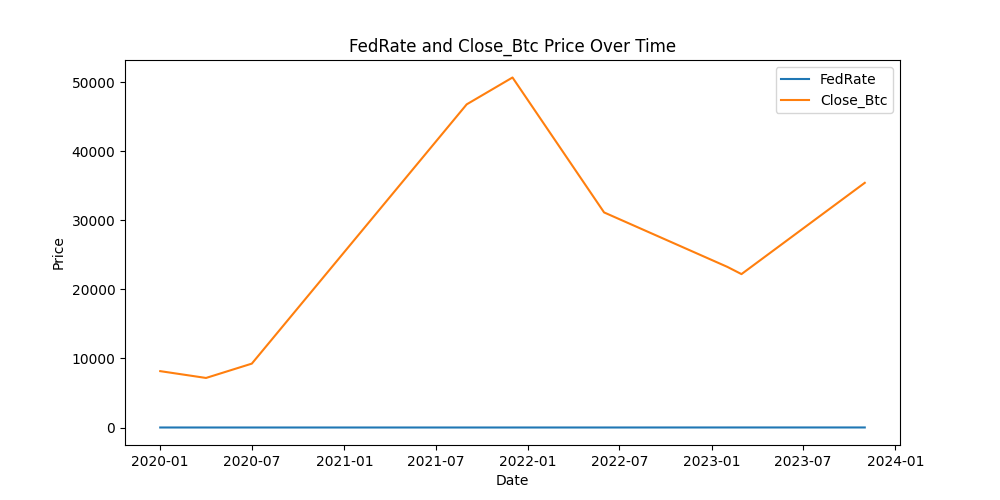
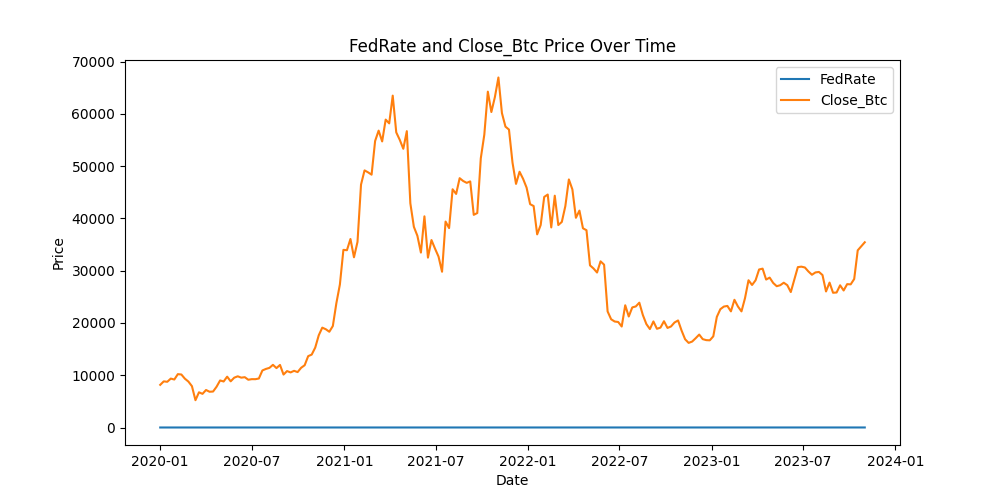
fixed date issue

diff --git a/main.py b/main.py
@@ -11,59 +11,37 @@ bitC_prices = pd.read_csv("Data/BTC-USD.csv", parse_dates=['Date'])
 ethC_prices = pd.read_csv("Data/ETH-USD.csv", parse_dates=['Date'])
 fed_rate = pd.read_csv("Data/FedRate_FRB_H15.csv", skiprows=5, parse_dates=["Time Period"])
 fed_rate.rename(columns={'Time Period': 'Date', 'RIFSPFF_N.WW': 'FedRate'}, inplace=True)
-personal_savings = pd.read_csv("Data/Personal Saving rate.csv", parse_dates=['DATE'])  # Assuming 'Date' column exists
-personal_savings.rename(columns={'DATE':'Date'}, inplace=True)
+
+personal_savings = pd.read_csv("Data/Personal Saving rate.csv")
+personal_savings['Date'] = pd.to_datetime(personal_savings['DATE'])  # Adjust 'DATE' if your column name differs
+personal_savings.drop(columns=['DATE'], inplace=True)  # Drop the original 'DATE' column
+personal_savings.set_index('Date', inplace=True)
+personal_savings_daily = personal_savings.resample('D').ffill()
+personal_savings_daily.reset_index(inplace=True)
+
 # Specify the renaming of columns after merging
 rename_dict = {
     'Close_x': 'Close_Btc',
     'Close_y': 'Close_Eth'
 }
 
-btc_dates = set(bitC_prices['Date'])
-eth_dates = set(ethC_prices['Date'])
-fed_dates = set(fed_rate['Date'])
-savings_dates = set(personal_savings['Date'])
-
-# Find common dates
-common_dates = btc_dates.intersection(eth_dates, fed_dates, savings_dates)
-print(f"Number of common dates: {len(common_dates)}")
-
-
-
-# merge task
+# Merge task
 def merge_data(dataframes, on='Date', how='inner', rename_cols=None):
-    # Initialize merged data with the first dataframe
     merged_data = dataframes[0]
-
-    # Iterate over the remaining dataframes and merge them one by one
     for df in dataframes[1:]:
         merged_data = pd.merge(merged_data, df, on=on, how=how)
-
-        # Rename columns if rename_cols is specified
         if rename_cols:
             merged_data.rename(columns=rename_cols, inplace=True)
-
     return merged_data
 
-
 # Merge all datasets on the 'Date' column with column renaming
-data = merge_data([bitC_prices, ethC_prices, fed_rate, personal_savings], rename_cols=rename_dict)
-
-# Check the resulting DataFrame
-print(data.head())
-
-
-
+data = merge_data([bitC_prices, ethC_prices, fed_rate, personal_savings_daily], rename_cols=rename_dict)
 
 ## Functions ##
-# Data plotting 
+# Data plotting
 def plot_price_movements(data, col1, col2, label1='First Asset', label2='Second Asset', folder='results', filename='price_movements.png'):
-    # Ensure the folder exists
     os.makedirs(folder, exist_ok=True)
-
-    # Full path for the plot image file
     plot_file_path = os.path.join(folder, filename)
-
     plt.figure(figsize=(10, 5))
     plt.plot(data['Date'], data[col1], label=label1)
     plt.plot(data['Date'], data[col2], label=label2)
@@ -71,70 +49,48 @@ def plot_price_movements(data, col1, col2, label1='First Asset', label2='Second 
     plt.ylabel('Price')
     plt.title(f'{label1} and {label2} Price Over Time')
     plt.legend()
-    
-    # Save the figure as an image file in the specified folder before showing it
     plt.savefig(plot_file_path)
     plt.show()
 
-
-
-
-##Linear Regression Analysis
+## Linear Regression Analysis
 def linear_regression_analysis(data, independent_col, dependent_col, plot=True, folder='results', plot_filename='linear_regression.png', summary_filename='regression_summary.png'):
-    # Define the independent variable (X) and add a constant term
     X = sm.add_constant(data[independent_col])
-    Y = data[dependent_col]  # Define the dependent variable (Y)
-    model = sm.OLS(Y, X).fit()  # Fit the linear regression model
-    print(model.summary())  # Print the summary of the regression
-
-    # Ensure the folder exists
+    Y = data[dependent_col]
+    model = sm.OLS(Y, X).fit()
+    print(model.summary())
     os.makedirs(folder, exist_ok=True)
-
-    # Full path for the summary image file and plot image file
     summary_image_path = os.path.join(folder, summary_filename)
     plot_image_path = os.path.join(folder, plot_filename)
-
-    # Convert the summary to a string
     summary_str = str(model.summary())
-
-    # Create a figure and add text of the summary to it
     fig, ax = plt.subplots(figsize=(10, 6))
     ax.text(0.01, 0.99, summary_str, verticalalignment='top', horizontalalignment='left', family='monospace', fontsize=10, transform=ax.transAxes)
     ax.axis('off')
-
-    # Save the figure containing the summary text as an image
     plt.savefig(summary_image_path, bbox_inches='tight')
-    plt.close(fig)  # Close the figure to prevent it from displaying
-
+    plt.close(fig)
     if plot:
-        # Plot the observed data
         plt.figure(figsize=(10, 6))
         sns.scatterplot(x=independent_col, y=dependent_col, data=data, color='blue', alpha=0.6)
-
-        # Plot the regression line
         sns.lineplot(x=data[independent_col], y=model.predict(X), color='red')
-
         plt.title(f'Linear Regression: {dependent_col} vs. {independent_col}')
         plt.xlabel(independent_col)
         plt.ylabel(dependent_col)
-        
-        # Save the plot image in the specified folder
         plt.savefig(plot_image_path)
         plt.show()
 
 def linear_reg_plot_price_mov(independent_col, dependent_col, folder, indxDep_name):
-    linear_regression_analysis(data, independent_col,dependent_col,folder=folder,  plot_filename=f'{indxDep_name}_linear_regression.png',summary_filename= f'{indxDep_name}_regression_summary.png')
-    plot_price_movements(data, independent_col,dependent_col, label1=independent_col, label2=dependent_col, folder=folder, filename=f'{indxDep_name}_price_movements.png')
+    linear_regression_analysis(data, independent_col, dependent_col, folder=folder, plot_filename=f'{indxDep_name}_linear_regression.png', summary_filename=f'{indxDep_name}_regression_summary.png')
+    plot_price_movements(data, independent_col, dependent_col, label1=independent_col, label2=dependent_col, folder=folder, filename=f'{indxDep_name}_price_movements.png')
+
 
 
 
 ## Use functions
 # #Fed Rate vs BTC Price
-# linear_reg_plot_price_mov(independent_col='FedRate', dependent_col='Close_Btc', folder='my_folder', indxDep_name='FedRatexBTC')
+linear_reg_plot_price_mov(independent_col='FedRate', dependent_col='Close_Btc', folder='my_folder', indxDep_name='FedRatexBTC')
 
-# #BTC Price vs BTC Price
+# # #BTC Price vs BTC Price
 # linear_reg_plot_price_mov(independent_col='Close_Btc', dependent_col='Close_Eth', folder='my_folder', indxDep_name='BTCxETH')
 
 # #Saving Rate vs BTC Price
-# linear_reg_plot_price_mov(independent_col='Close_Btc', dependent_col='Close_Eth', folder='my_folder', indxDep_name='BTCxETH')
+# linear_reg_plot_price_mov(independent_col='PSAVERT', dependent_col='Close_Btc', folder='my_folder', indxDep_name='PersonalSavingxBTC')
 
